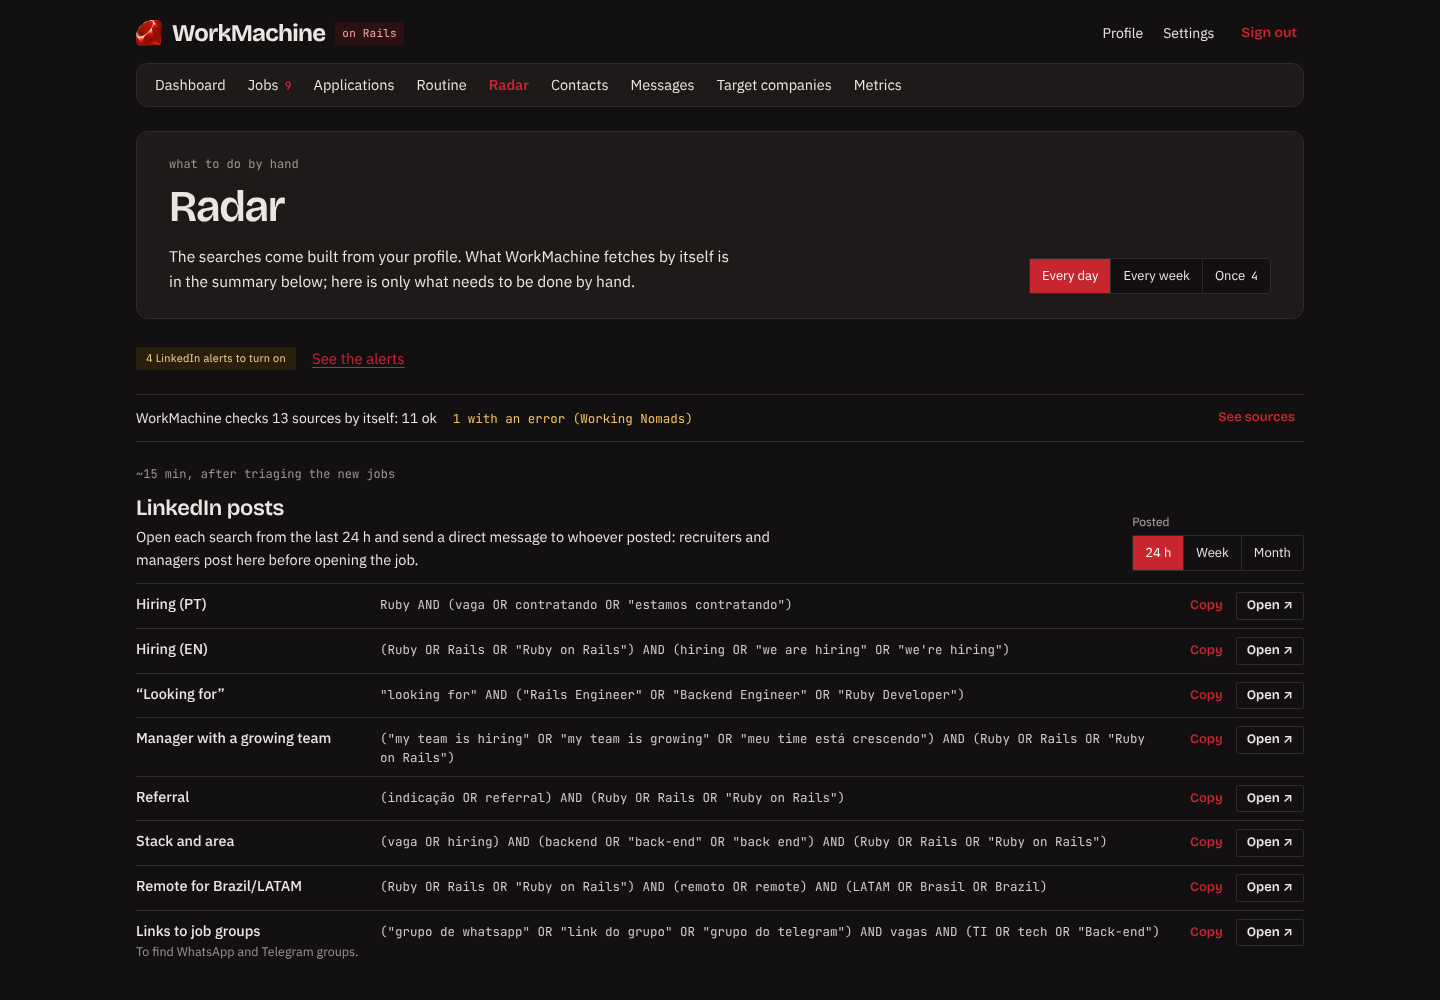
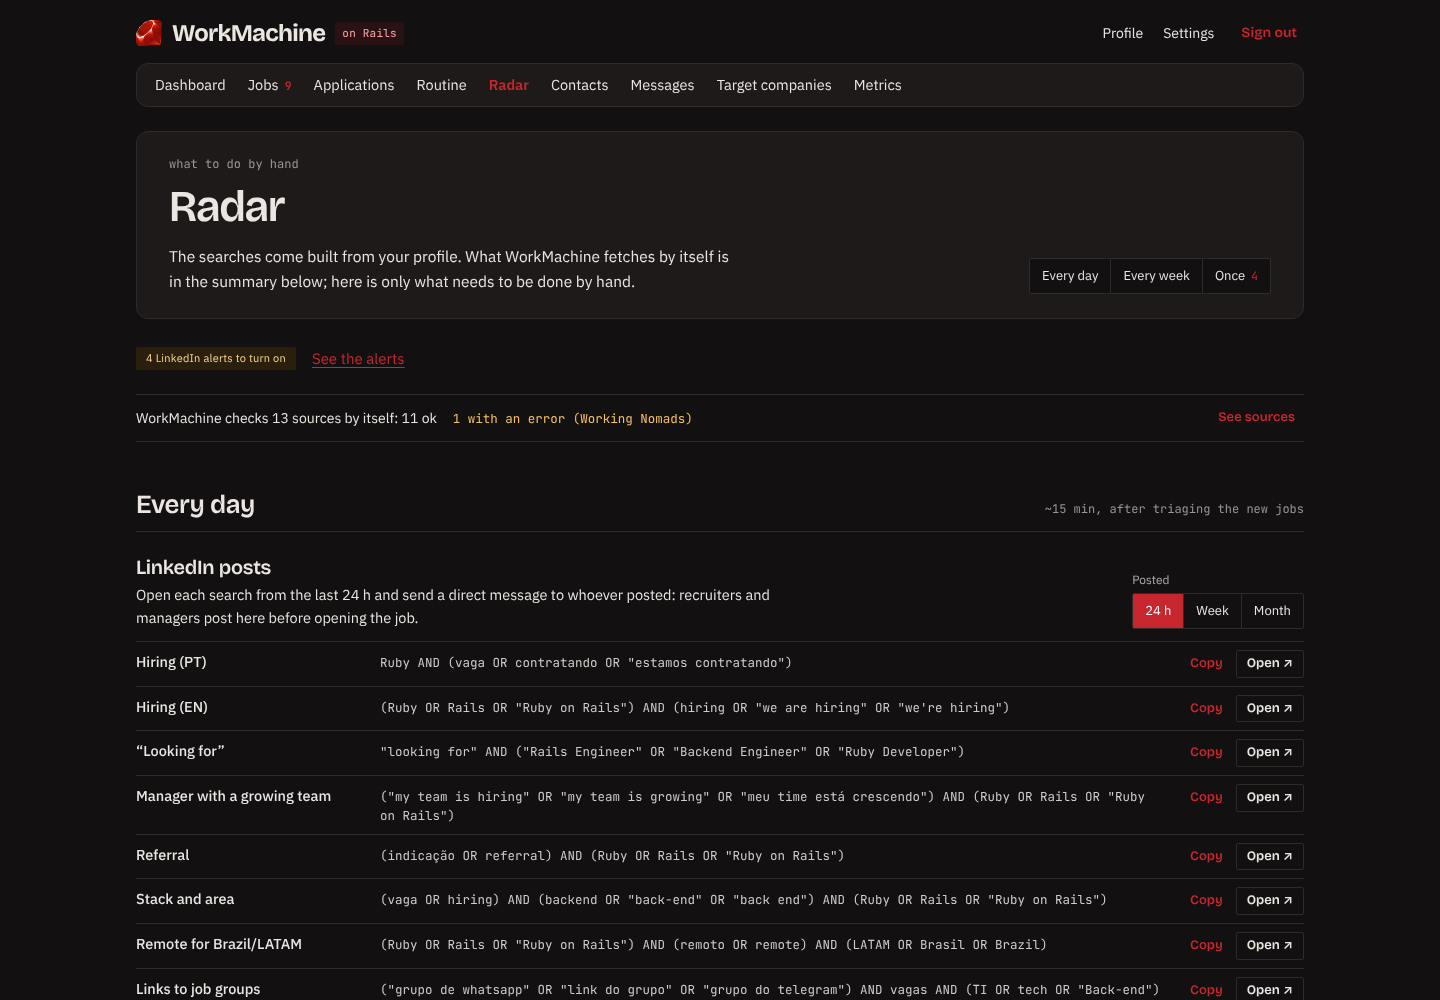
Feat: Radar numa página só, com o que já foi marcado recolhido
- Todo dia, Toda semana e Uma vez ficam na mesma página, com Uma vez no final;
  os botões do topo só pulam para cada parte
- Alertas do LinkedIn: os ativados se recolhem em "3 de 7 alertas ativados" e
  os filtros somem quando não falta nenhum, então a seção encolhe a cada marcação
- Cadastros: os feitos se recolhem em "N cadastrados" em cada grupo
- No celular, os links para uma seção param abaixo da navegação fixa
- Print do Radar nos READMEs atualizado

diff --git a/app/assets/tailwind/application.css b/app/assets/tailwind/application.css
@@ -120,6 +120,8 @@
   h1, h2, h3, h4 { @apply font-display; font-weight: 600; line-height: 1.12; letter-spacing: -0.015em; }
   h1 { font-size: 44px; letter-spacing: -0.03em; }
   @media (width < 40rem) { h1 { font-size: 34px; } }
+  /* On phones the navigation sticks to the top: links to a section (#once) stop below it. */
+  @media (width < 40rem) { html { scroll-padding-top: 56px; } }
   h2 { font-size: 20px; }
   h3 { font-size: 15px; }
   a { @apply text-accent underline underline-offset-3 hover:text-accent-hover; }

diff --git a/spec/requests/radar_spec.rb b/spec/requests/radar_spec.rb
@@ -62,8 +62,9 @@ RSpec.describe "Radar" do
 
       get radar_path
 
-      expect(response.body).to include("Os #{searches.size} alertas do LinkedIn estão ativados", 'href="#linkedin_alerts"')
-      expect(response.body).not_to include("para ativar")
+      expect(response.body).to include("Os #{searches.size} alertas do LinkedIn estão ativados", 'href="#linkedin_alerts"',
+                                       "#{searches.size} de #{searches.size} alertas ativados")
+      expect(response.body).not_to include("para ativar", "linkedin_alerts_li_region")
     end
 
     it "hides the notice while the profile is empty" do
@@ -121,7 +122,7 @@ RSpec.describe "Consultancies" do
     patch consultancy_path(consultancy), params: { registered: "1" }, as: :turbo_stream
 
     expect(response.media_type).to eq(Mime[:turbo_stream])
-    expect(response.body).to include("registrations_count_#{consultancy.kind}", "1/1", "1 de 1 cadastros feitos")
+    expect(response.body).to include('target="registrations"', "1/1", "1 de 1 cadastros feitos", "1 cadastrado")
     expect(consultancy.reload.registered_on).to eq(Date.current)
 
     patch consultancy_path(consultancy), params: { registered: "0" }

diff --git a/app/controllers/consultancies_controller.rb b/app/controllers/consultancies_controller.rb
@@ -4,13 +4,10 @@ class ConsultanciesController < ApplicationController
     @consultancy.update!(registered_on: params[:registered] == "1" ? (@consultancy.registered_on || Date.current) : nil)
 
     respond_to do |format|
+      # The whole list again: a checked one folds into its group's "cadastrados".
       format.turbo_stream do
-        same_kind = Consultancy.where(kind: @consultancy.kind)
-        render turbo_stream: [
-          turbo_stream.replace(@consultancy, partial: "consultancies/consultancy", locals: { consultancy: @consultancy }),
-          turbo_stream.update("registrations_count_#{@consultancy.kind}", "#{same_kind.where.not(registered_on: nil).count}/#{same_kind.count}"),
-          turbo_stream.update("registrations_total", partial: "radar/registrations_total", locals: { all: Consultancy.all })
-        ]
+        render turbo_stream: turbo_stream.replace("registrations", partial: "radar/registrations",
+                                                                   locals: { registrations: Consultancy.alphabetical.group_by(&:kind), keywords: Radar.profile_keywords })
       end
       format.html { redirect_to radar_path(anchor: "cadastros") }
     end

diff --git a/app/controllers/activated_alerts_controller.rb b/app/controllers/activated_alerts_controller.rb
@@ -20,7 +20,8 @@ class ActivatedAlertsController < ApplicationController
           pending = summary&.pending.to_i
           render turbo_stream: [
             turbo_stream.replace("linkedin_alerts_list", partial: "radar/alerts",
-                                                         locals: { searches: Radar.alert_searches(profile), filters: Radar.sanitize_filters(session[:radar_filters]), location: profile.location }),
+                                                         locals: { task: Radar.alerts_task(profile), filters: Radar.sanitize_filters(session[:radar_filters]),
+                                                                   available: Radar.filters, location: profile.location }),
             turbo_stream.update("alerts_summary", partial: "radar/alerts_summary", locals: { summary: }),
             turbo_stream.update("pending_alerts_count", pending.positive? ? pending.to_s : "")
           ]

diff --git a/app/models/radar.rb b/app/models/radar.rb
@@ -52,9 +52,13 @@ class Radar
       tasks_for(profile).flat_map { it["searches"] }
     end
 
-    # The searches with the "ativado" box (Alertas do LinkedIn), filled in from the profile.
+    # The task whose searches have the "ativado" box (Alertas do LinkedIn), filled in from the profile.
+    def alerts_task(profile = Profile.current)
+      tasks_for(profile).find { it["checkable"] }
+    end
+
     def alert_searches(profile = Profile.current)
-      tasks_for(profile).select { it["checkable"] }.flat_map { it["searches"] }
+      alerts_task(profile)&.fetch("searches").to_a
     end
 
     # How the LinkedIn alerts stand (nil while the profile is empty): how many searches, how many
